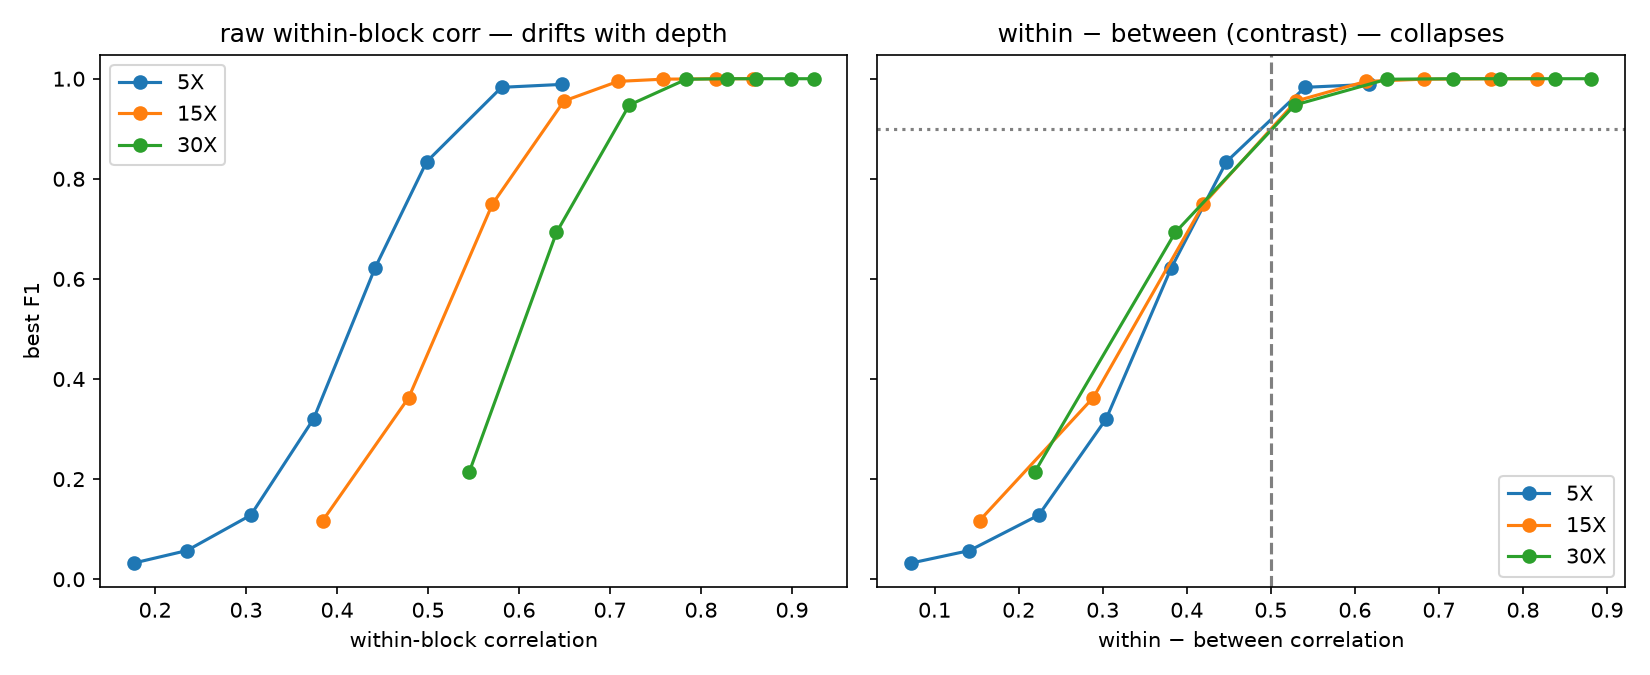
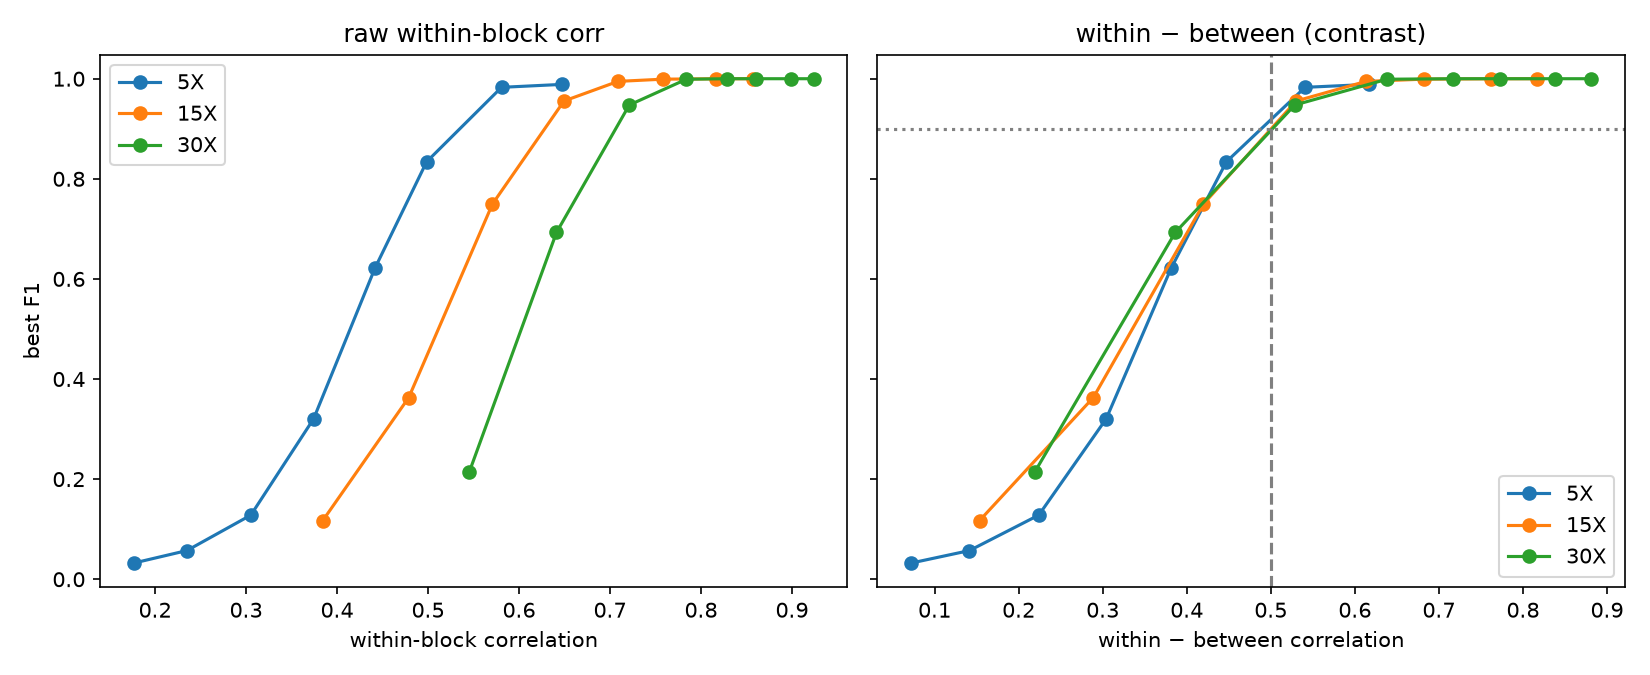
Add report 2 (block discovery / necessary correlation) + MLE table generator
- reports/02-block-discovery-correlation.pdf
- binomial_MLE.py: __main__ prints the EN vs MLE bias-variance table
- collapse.py: tidy subplot titles; regenerate collapse.png

Changed region(s): [[0.5873, 0.0311, 0.9273, 0.0622], [0.1236, 0.0311, 0.4636, 0.0622]]

diff --git a/binomial_MLE.py b/binomial_MLE.py
@@ -1,20 +1,14 @@
 import numpy as np
-import matplotlib
-matplotlib.use("Agg")
-import matplotlib.pyplot as plt
 from simulate import simulate
 from estimators import estimate
-from clock import naive_features
-from clock import pred_rel
-from clock import loso_mae_years
-from clock import mae_years
-from clock import group_reads
+from clock import pred_rel, mae_years
+
 
 def mle_pred_rel(data, top_k):
     ref_meth = estimate(data["m"], data["n"] - data["m"], "v3b")
     n_sites = data["m"].shape[1]
     n_specimens = data["m"].shape[0]
-    pred_rel = np.zeros(n_specimens)
+    preds = np.zeros(n_specimens)
     ages = np.linspace(0, 1, 101)
     species = data["species"]
 
@@ -27,99 +21,47 @@ def mle_pred_rel(data, top_k):
         corrs = np.zeros(n_sites)
         for i in range(n_sites):
             slopes[i], intercepts[i] = np.polyfit(train_ages, ref_meth[train][:, i], 1)
-            corrs[i] = np.corrcoef(ref_meth[train][:, i], train_ages)[0,1]
+            corrs[i] = np.corrcoef(ref_meth[train][:, i], train_ages)[0, 1]
         corrs = np.nan_to_num(corrs)
         top = np.argsort(np.abs(corrs))[-top_k:]
         for s in np.where(test)[0]:
-            likelyhoods = []
+            likelihoods = []
             for age in ages:
-                sum_a = 0
+                sum_a = 0.0
                 for i in top:
                     m_i = data["m"][s][i]
                     n_i = data["n"][s][i]
                     p_i = np.clip(slopes[i] * age + intercepts[i], 1e-6, 1 - 1e-6)
                     sum_a += m_i * np.log(p_i) + (n_i - m_i) * np.log(1 - p_i)
-                likelyhoods.append(sum_a)
-            pred_rel[s] = ages[np.argmax(likelyhoods)]
-    return pred_rel
-
-depths = [3, 5, 8, 12]
-n_seeds = 3
-top_k = 100
-en_maes, mle_maes, engrp_maes, mlegrp_maes = [], [], [], []
-
-#for d in depths:
-#    en_runs, mle_runs = [], []
-#    for s in range(n_seeds):
-#       data = simulate(seed=s, coverage=d)
-#        mle = mae_years(mle_pred_rel(data, top_k), data)
-#        X = estimate(data["m"], data["n"] - data["m"], "v3b")
-#        en = mae_years(pred_rel(X, data), data)
-#        en_runs.append(en)
-#        mle_runs.append(mle)
-#   en_maes.append(np.mean(en_runs))
-#   mle_maes.append(np.mean(mle_runs))
-#   print(f"depth {d:>2}:  EN {en_maes[-1]:5.2f}   MLE {mle_maes[-1]:5.2f}")
-
-#for cov in [3, 30]:
-#    data = simulate(seed=0, coverage=cov)
-#    mle = mle_pred_rel(data, 100)
-#    X = estimate(data["m"], data["n"] - data["m"], "v3b")
-#    en = pred_rel(X, data)
-#    true = data["relative_age"]
-#    print(f"--- coverage {cov} ---")
-#    for name, pred in [("EN", en), ("MLE", mle)]:
-#        err   = pred - true
-#        slope = np.polyfit(true, pred, 1)[0]   # 1.0 = no shrinkage, <1 = shrinks to mean
-#        print(f"{name:3}  meanerr {err.mean():+.3f}  std {err.std():.3f}  slope {slope:.2f}  r {r:.2f}")
-
-#for cov in [30]:
-#    data = simulate(seed=0, coverage=cov)
-#    print("MLE", cov, mae_years(mle_pred_rel(data, 100), data))
-#   X = estimate(data["m"], data["n"] - data["m"], "v3b")
-#   print("EN ", cov, mae_years(pred_rel(X, data), data))
-
-#data = simulate(seed=0, coverage=30)
-#mle = mle_pred_rel(data, 100)
-#X = estimate(data["m"], data["n"] - data["m"], "v3b")
-#en = pred_rel(X, data)
-#true, species = data["relative_age"], data["species"]
-
-#for sp in np.unique(species):
-#    msk = species == sp
-#    L = data["lifespans"][sp]
-#    for name, pred in [("MLE", mle), ("EN", en)]:
-#        err = pred[msk] - true[msk]
-#        print(f"sp{sp} L={L:>3} {name}: yrsMAE {np.mean(np.abs(err))*L:6.2f}  "
-#             f"relMAE {np.mean(np.abs(err)):.3f}  meanerr {err.mean():+.3f}")
-
-for d in depths:
-    en_runs, mle_runs, engrp_runs, mlegrp_runs = [], [], [], []
-    for s in range(n_seeds):
-        data = simulate(seed=s, coverage=d, block_size=5, frac_grouped=1.0)
-        gdata = group_reads(data)
-
-        mle = mae_years(mle_pred_rel(data,  top_k), data)
-        mle_grp = mae_years(mle_pred_rel(gdata, top_k), gdata)
-
-        X = estimate(data["m"],  data["n"]  - data["m"],  "v3b")
-        en = mae_years(pred_rel(X, data), data)
-        Xg = estimate(gdata["m"], gdata["n"] - gdata["m"], "v3b")
-        en_grp = mae_years(pred_rel(Xg, gdata), gdata)
-
-        en_runs.append(en)
-        mle_runs.append(mle)
-        engrp_runs.append(en_grp)
-        mlegrp_runs.append(mle_grp)
-        
-    en_maes.append(np.mean(en_runs))
-    mle_maes.append(np.mean(mle_runs))
-    engrp_maes.append(np.mean(engrp_runs))
-    mlegrp_maes.append(np.mean(mlegrp_runs))
-    print(f"depth {d:>2}:  EN {en_maes[-1]:5.2f} EN_GRP {engrp_maes[-1]:5.2f}  MLE {mle_maes[-1]:5.2f} MLE_GRP {mlegrp_maes[-1]:5.2f}")
+                likelihoods.append(sum_a)
+            preds[s] = ages[np.argmax(likelihoods)]
+    return preds
 
 
-
-
-
-
+if __name__ == "__main__":
+    # Bias-variance: binomial MLE vs elastic net (v3b features), low vs high coverage.
+    # LOSO predictions pooled over seeds; slope = polyfit(true, pred), 1 = no shrinkage.
+    n_seeds, top_k = 5, 100
+    for cov in [3, 30]:
+        true_all, en_all, mle_all, en_mae, mle_mae = [], [], [], [], []
+        for s in range(n_seeds):
+            data = simulate(seed=s, coverage=cov)
+            true = data["relative_age"]
+            X = estimate(data["m"], data["n"] - data["m"], "v3b")
+            en = pred_rel(X, data)
+            mle = mle_pred_rel(data, top_k)
+            true_all.append(true)
+            en_all.append(en)
+            mle_all.append(mle)
+            en_mae.append(mae_years(en, data))
+            mle_mae.append(mae_years(mle, data))
+        true_all = np.concatenate(true_all)
+        en_all = np.concatenate(en_all)
+        mle_all = np.concatenate(mle_all)
+        print(f"=== coverage {cov}X (pooled over {n_seeds} seeds) ===")
+        for name, pred in [("EN ", en_all), ("MLE", mle_all)]:
+            r = np.corrcoef(true_all, pred)[0, 1]
+            slope = np.polyfit(true_all, pred, 1)[0]
+            err_std = (pred - true_all).std()
+            print(f"  {name}  r {r:.2f}  slope {slope:.2f}  err_std {err_std:.3f}")
+        print(f"  years-MAE:  EN {np.mean(en_mae):.2f}  MLE {np.mean(mle_mae):.2f}")

diff --git a/collapse.py b/collapse.py
@@ -41,9 +41,9 @@ colors = ['tab:blue', 'tab:orange', 'tab:green']
 for di, depth in enumerate(depths):
     ax1.plot(within_map[:, di], f1_map[:, di], 'o-', color=colors[di], label=f'{depth}X')
     ax2.plot(within_map[:, di] - between_map[:, di], f1_map[:, di], 'o-', color=colors[di], label=f'{depth}X')
-ax1.set_title('raw within-block corr — drifts with depth')
+ax1.set_title('raw within-block corr')
 ax1.set_xlabel('within-block correlation'); ax1.set_ylabel('best F1')
-ax2.set_title('within − between (contrast) — collapses')
+ax2.set_title('within − between (contrast)')
 ax2.set_xlabel('within − between correlation')
 ax2.axvline(0.5, ls='--', color='gray'); ax2.axhline(0.9, ls=':', color='gray')
 ax1.legend(); ax2.legend()